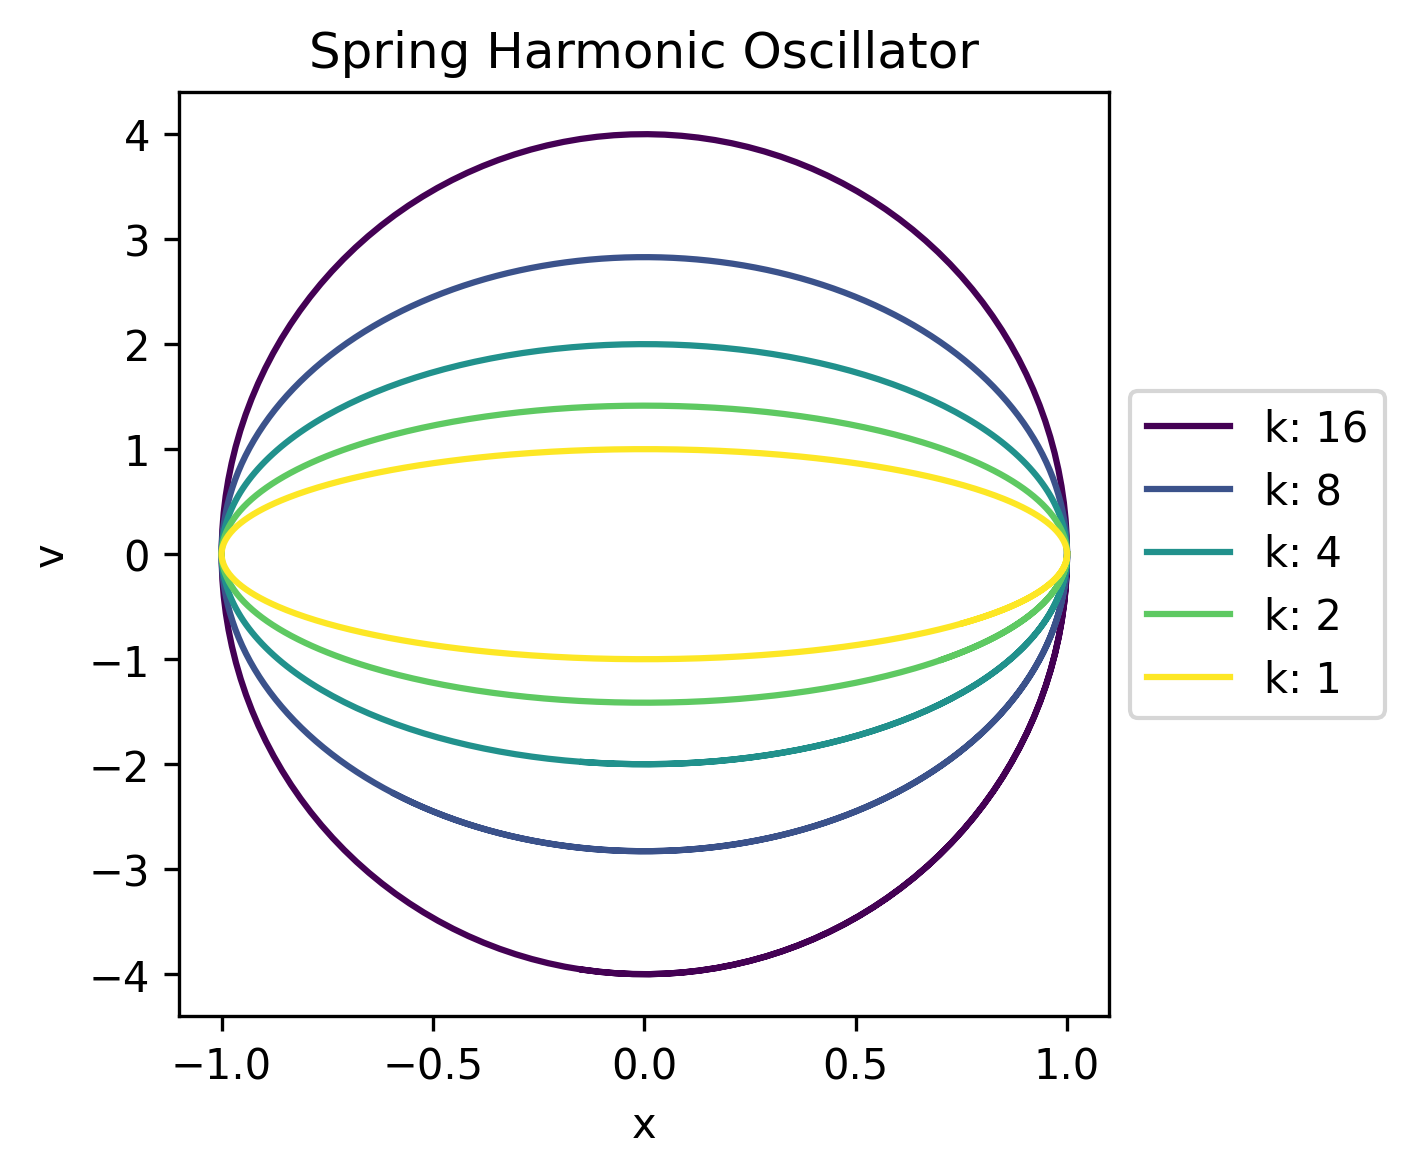
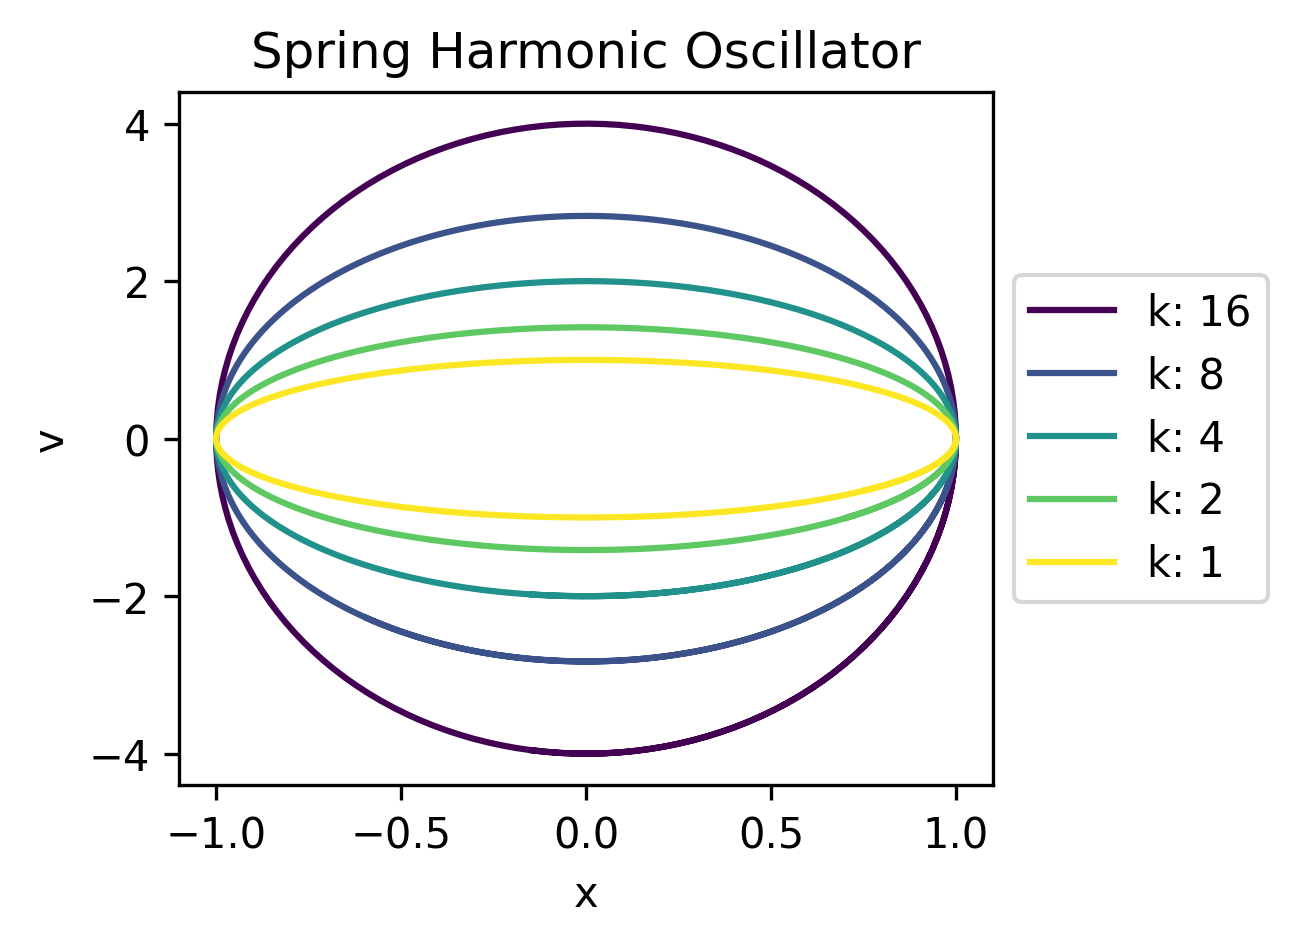
changed size of plot

Changed region(s): [[0.0616, 0.0307, 0.9861, 0.982], [0.0308, 0.4603, 0.0616, 0.491]]

diff --git a/src/visualizations.py b/src/visualizations.py
@@ -282,7 +282,7 @@ def vis_harmonic_oscillator(data_per_k):
             - all_xs (list): List of computed spatial values
             - all_vs (list): List of computed velocities, corresponding with spatial value
     """
-    plt.figure(figsize=(4, 4))
+    plt.figure(figsize=(3.5, 3))
 
     ks = list(data_per_k.keys())
     colours = cm.viridis(np.linspace(0, 1, len(ks)))
